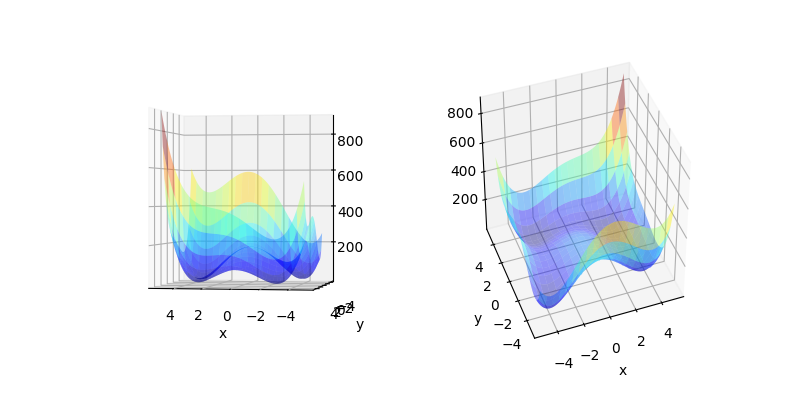
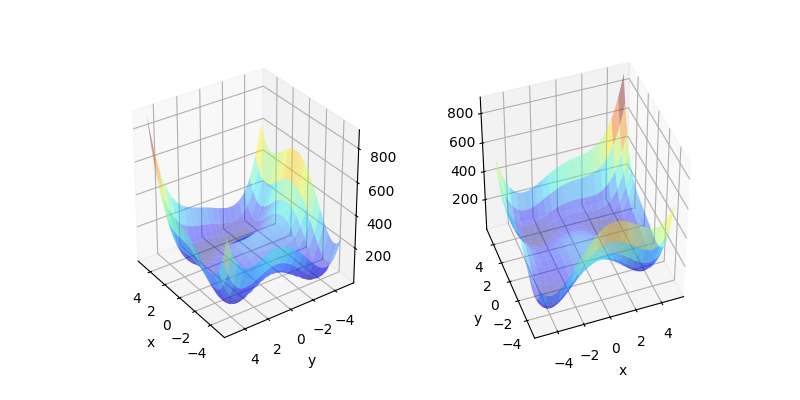
-

diff --git a/func_analysis/func_70_dfo/func_70_dfo.html b/func_analysis/func_70_dfo/func_70_dfo.html
@@ -64,7 +64,7 @@ fig = plt.figure(figsize = (8,4))
 
 ax = fig.add_subplot(1, 2, 1, projection='3d')
 ax.plot_surface(X,Y,Z,rstride = 5, cstride = 5, cmap = 'jet', alpha = .4, edgecolor = 'none' )
-ax.view_init(0, 100)
+ax.view_init(29, 145)
 ax.set_xlabel('x')
 ax.set_ylabel('y')
 

diff --git a/func_analysis/func_70_dfo/turevsiz_optimizasyon__derivativefree_optimization_.html b/func_analysis/func_70_dfo/turevsiz_optimizasyon__derivativefree_optimization_.html
@@ -64,7 +64,7 @@ fig = plt.figure(figsize = (8,4))
 
 ax = fig.add_subplot(1, 2, 1, projection='3d')
 ax.plot_surface(X,Y,Z,rstride = 5, cstride = 5, cmap = 'jet', alpha = .4, edgecolor = 'none' )
-ax.view_init(0, 100)
+ax.view_init(29, 145)
 ax.set_xlabel('x')
 ax.set_ylabel('y')
 

diff --git a/func_analysis/func_70_dfo/func_70_dfo.tex b/func_analysis/func_70_dfo/func_70_dfo.tex
@@ -46,7 +46,7 @@ fig = plt.figure(figsize = (8,4))
 
 ax = fig.add_subplot(1, 2, 1, projection='3d')
 ax.plot_surface(X,Y,Z,rstride = 5, cstride = 5, cmap = 'jet', alpha = .4, edgecolor = 'none' )
-ax.view_init(0, 100)
+ax.view_init(29, 145)
 ax.set_xlabel('x')
 ax.set_ylabel('y')
 
